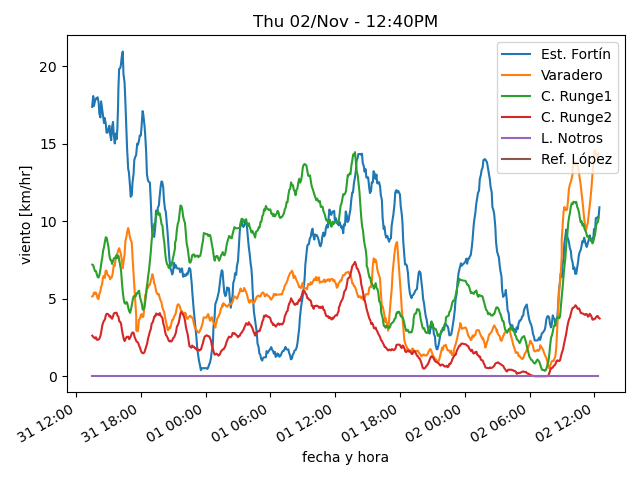
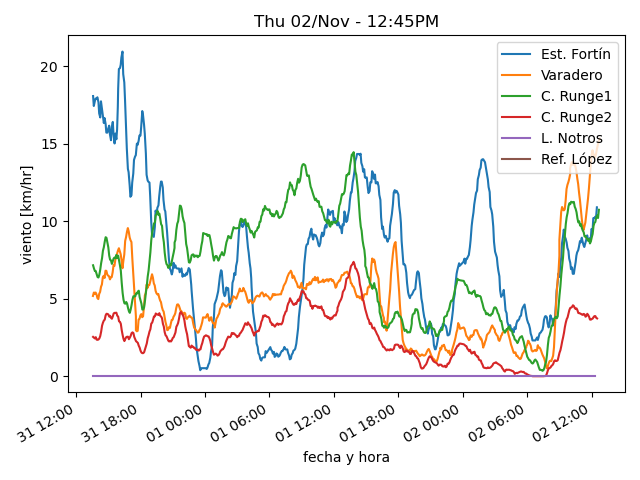
actualiza datos

diff --git a/estaciones/estacion2.html b/estaciones/estacion2.html
@@ -18,22 +18,22 @@
     </tr>
     <tr>
      <td class="stats_data">
-      12:24PM
+      12:44PM
      </td>
     </tr>
     <tr>
      <td class="stats_data">
-      9.6⁰C
+      9.8⁰C
      </td>
     </tr>
     <tr>
      <td class="stats_data">
-      5.7⁰C
+      4.7⁰C
      </td>
     </tr>
     <tr>
      <td class="stats_data">
-      76.4%
+      70.4%
      </td>
     </tr>
     <tr>
@@ -43,7 +43,7 @@
     </tr>
     <tr>
      <td class="stats_data">
-      14.2/16.9 km/hr NW
+      14.1/16.5 km/hr NW
      </td>
     </tr>
     <tr>
@@ -53,12 +53,12 @@
     </tr>
     <tr>
      <td class="stats_data">
-      9.0
+      6.0
      </td>
     </tr>
     <tr>
      <td class="stats_data">
-      1012.1 W/m²
+      714.0 W/m²
      </td>
     </tr>
    </tbody>

diff --git a/estaciones/estacion3.html b/estaciones/estacion3.html
@@ -18,32 +18,32 @@
     </tr>
     <tr>
      <td class="stats_data">
-      12:24PM
+      12:39PM
      </td>
     </tr>
     <tr>
      <td class="stats_data">
-      9.1⁰C
+      10.3⁰C
      </td>
     </tr>
     <tr>
      <td class="stats_data">
-      4.5⁰C
+      4.1⁰C
      </td>
     </tr>
     <tr>
      <td class="stats_data">
-      72.9%
+      65.8%
      </td>
     </tr>
     <tr>
      <td class="stats_data">
-      1010.94hPa
+      1010.84hPa
      </td>
     </tr>
     <tr>
      <td class="stats_data">
-      8.0/11.1 km/hr NNW
+      9.9/13.5 km/hr NNW
      </td>
     </tr>
     <tr>
@@ -58,7 +58,7 @@
     </tr>
     <tr>
      <td class="stats_data">
-      1154.7 W/m²
+      1210.8 W/m²
      </td>
     </tr>
    </tbody>
